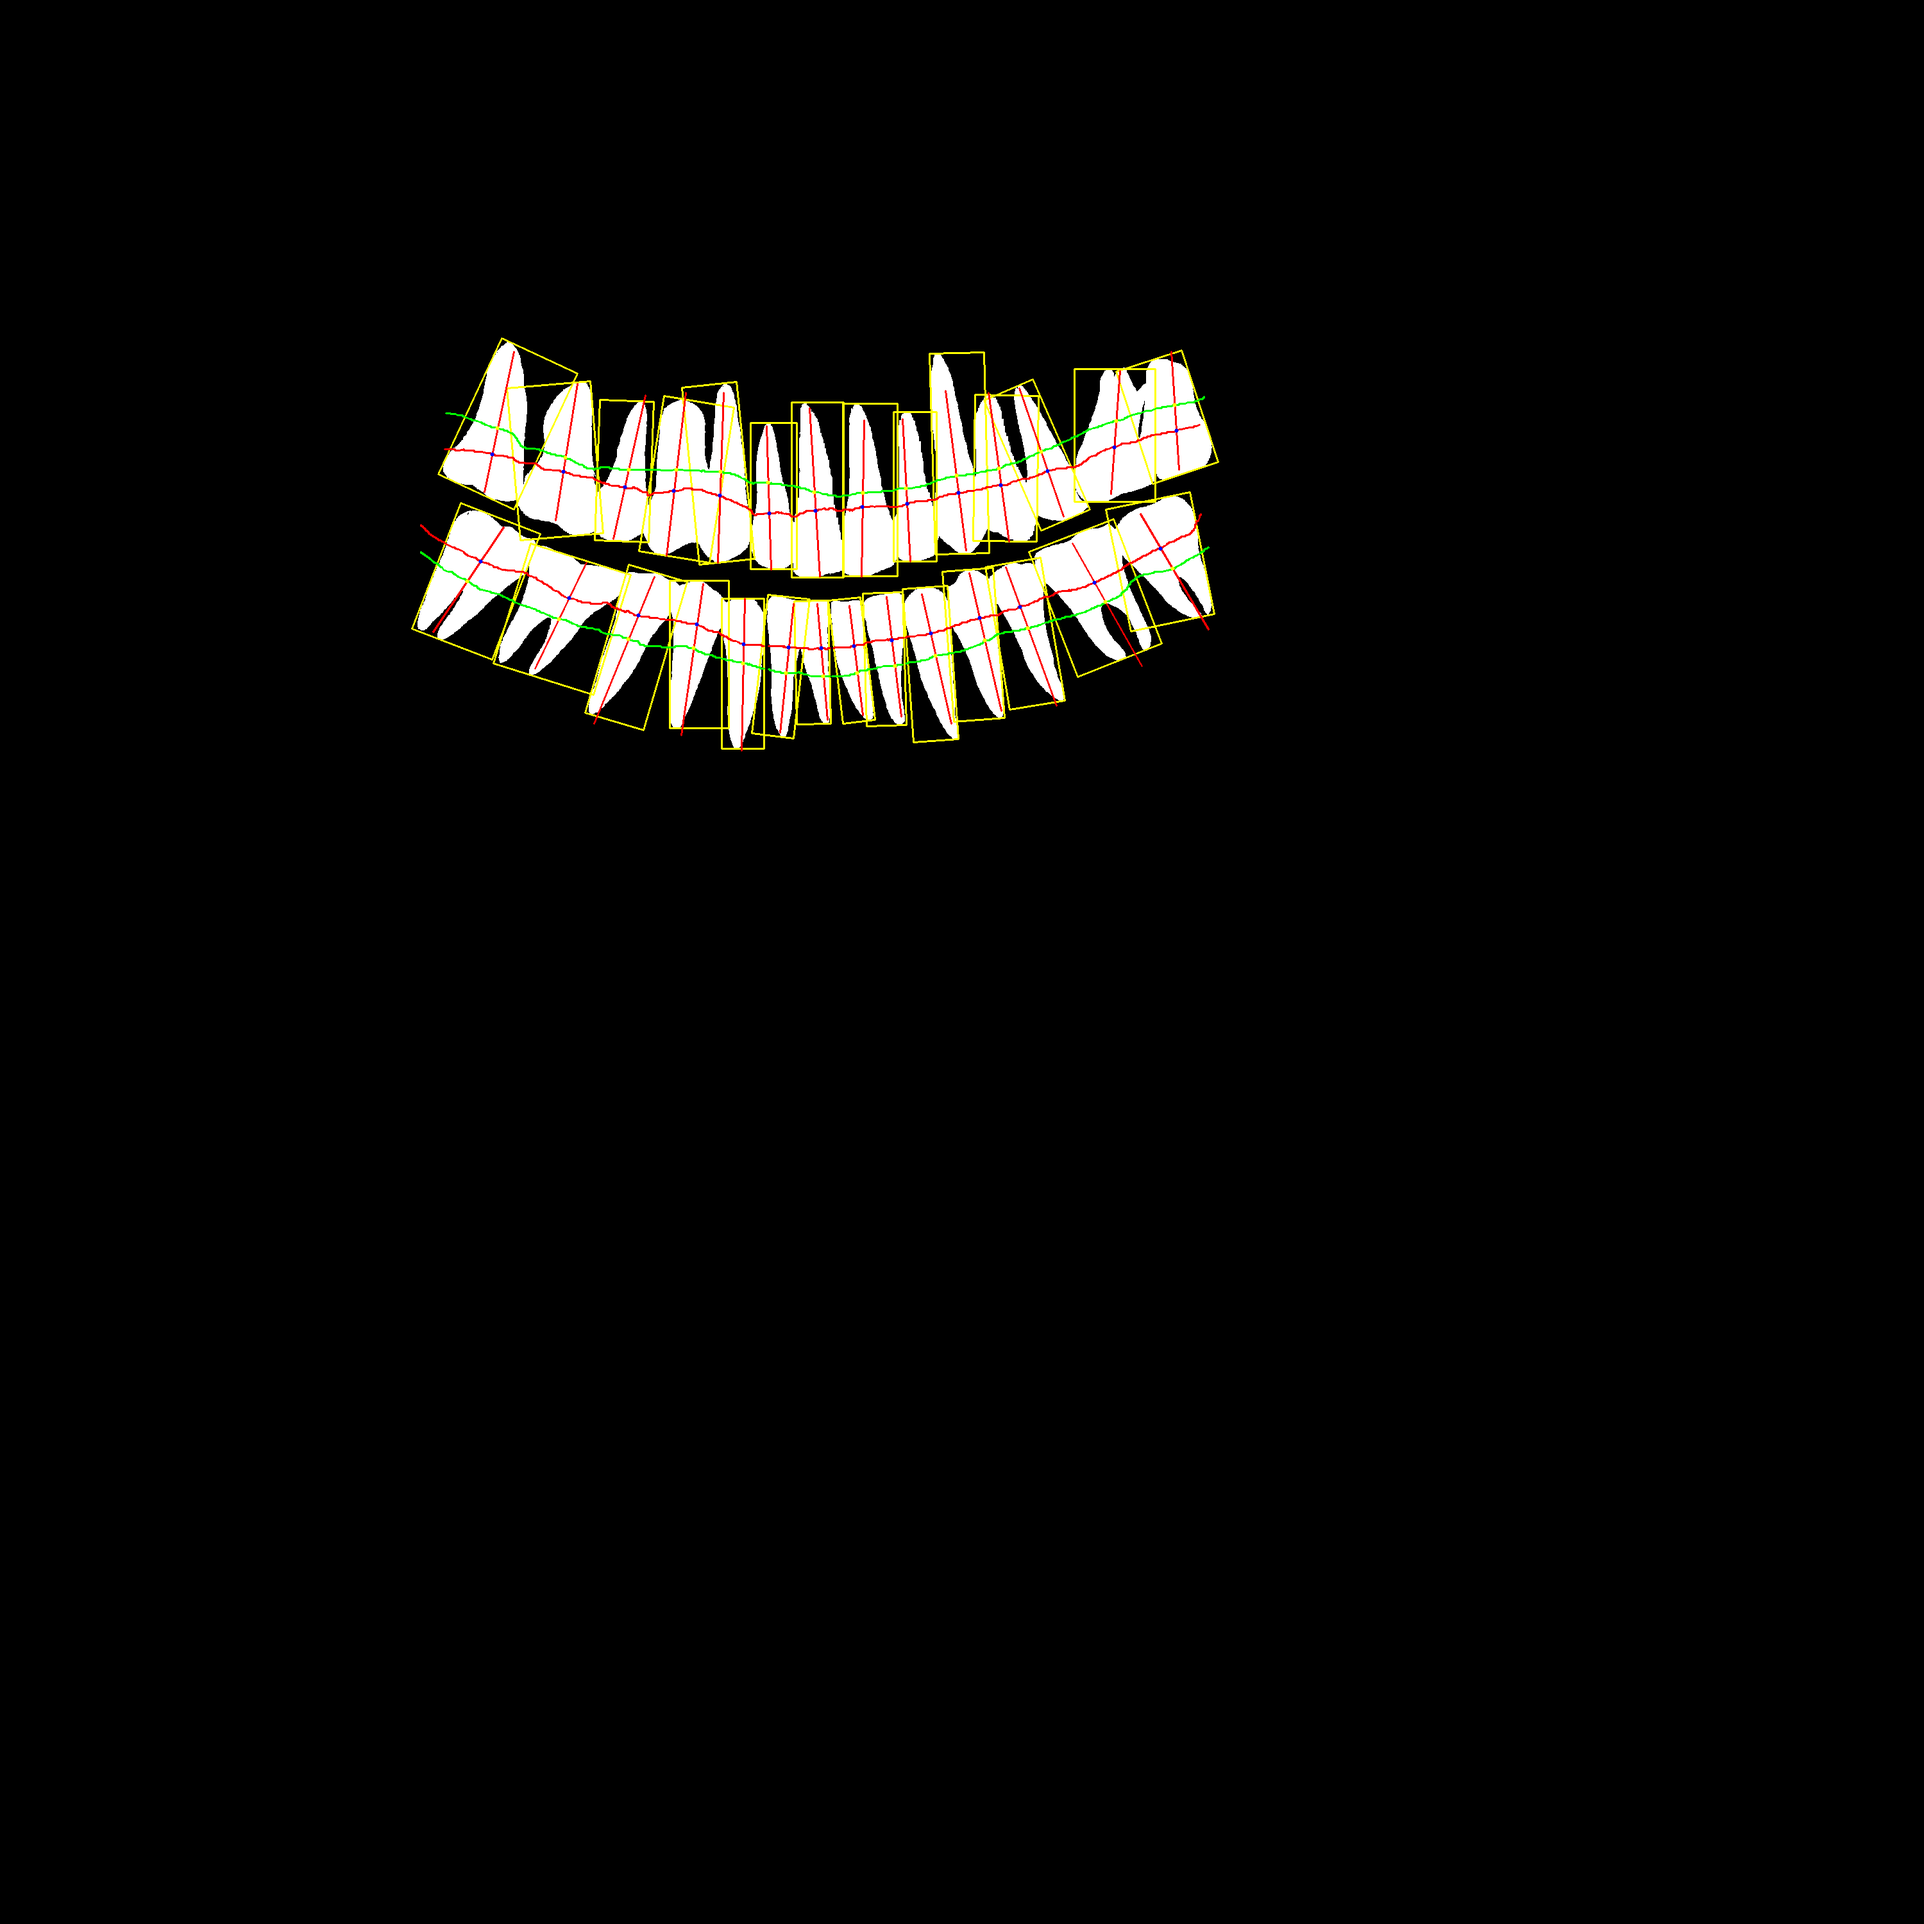
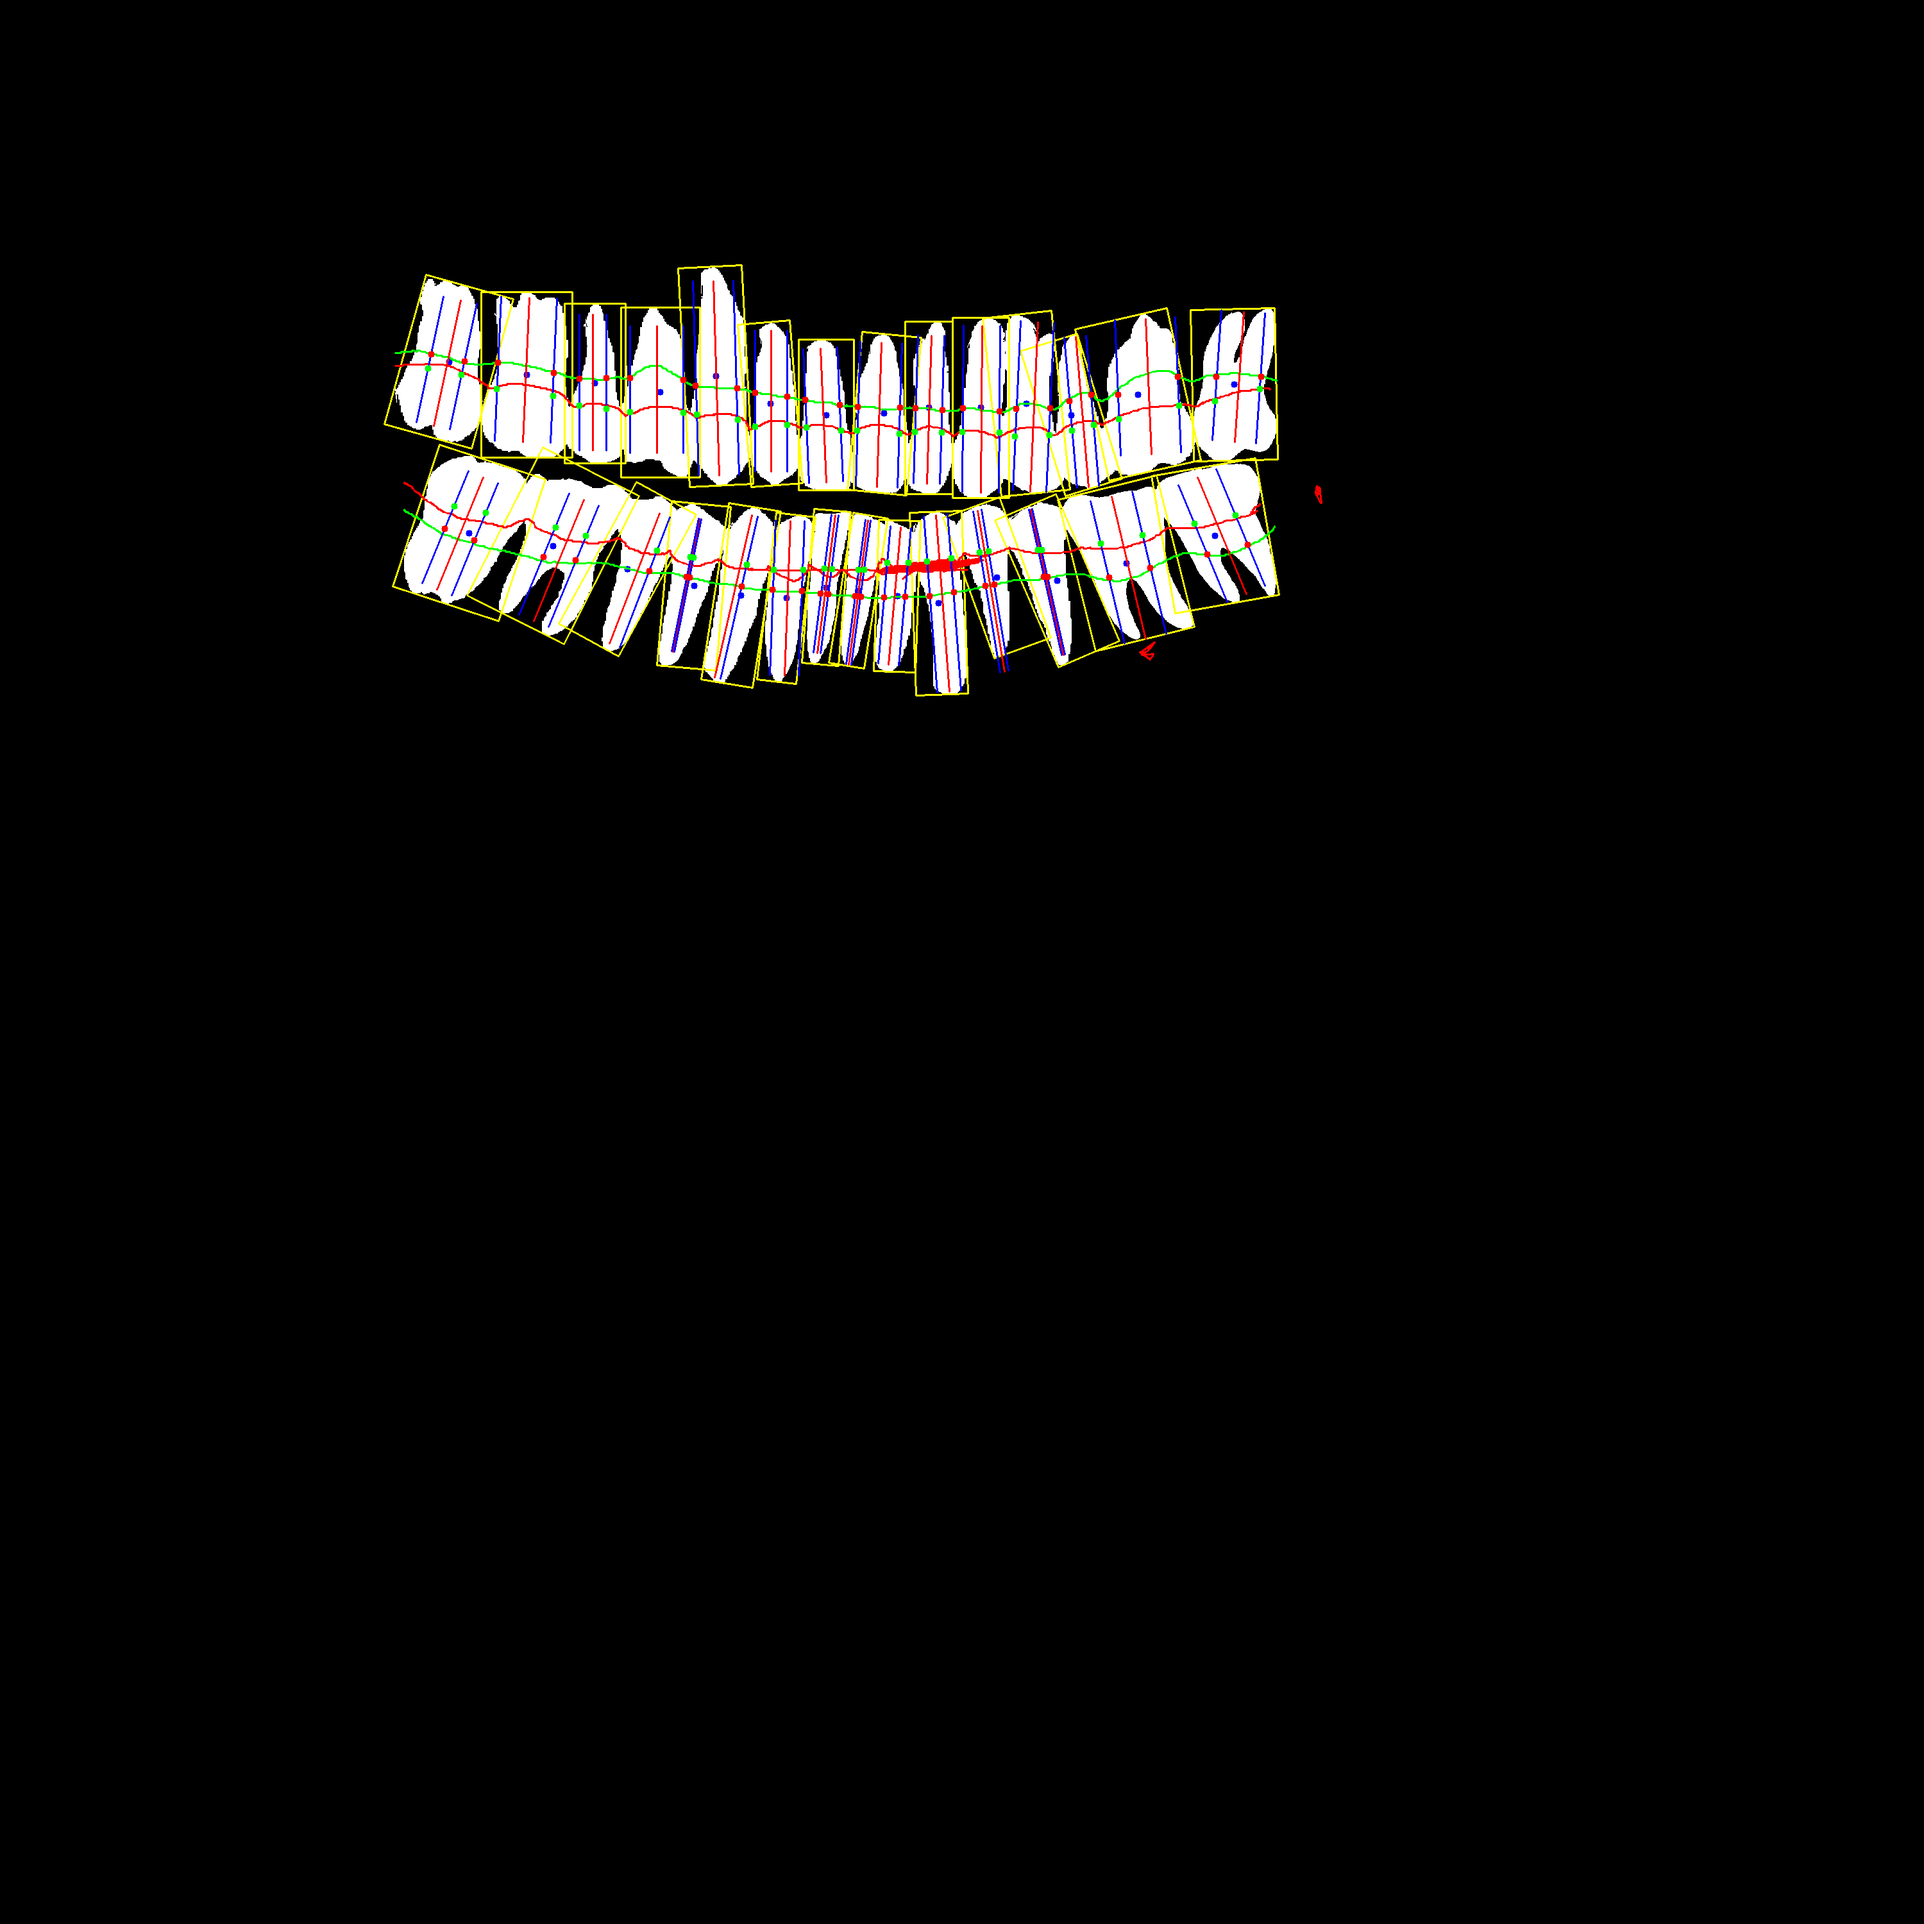
[BE-21]: tla 양쪽 평행이동

Changed region(s): [[0.186, 0.124, 0.682, 0.403]]

diff --git a/src/main/java/com/fas/PrtioAI_Insights/service/CejBoneDistancesService.java b/src/main/java/com/fas/PrtioAI_Insights/service/CejBoneDistancesService.java
@@ -323,7 +323,6 @@ public class CejBoneDistancesService {
             int toothNum = entry.getKey();
             List<List<Point>> tlaSegments = entry.getValue();
 
-            // 해당 치아 번호에 따른 CEJ와 Bone 교점 범위를 가져옴
             List<Point> cejIntersections = cejIntersectionsByTooth.get(toothNum);
             List<Point> boneIntersections = boneIntersectionsByTooth.get(toothNum);
 
@@ -345,51 +344,75 @@ public class CejBoneDistancesService {
                     double shiftX = (totalDy / length);
                     double shiftY = -(totalDx / length);
 
-                    Point lastCejIntersection = null;
-                    Point lastBoneIntersection = null;
-                    List<Point> finalShiftedTLA = new ArrayList<>();
-                    boolean foundLastIntersection = false;
+                    List<Point> finalShiftedTlaLeft = new ArrayList<>();
+                    List<Point> finalShiftedTlaRight = new ArrayList<>();
+                    Point lastCejIntersectionLeft = null;
+                    Point lastBoneIntersectionLeft = null;
+                    Point lastCejIntersectionRight = null;
+                    Point lastBoneIntersectionRight = null;
+                    boolean foundLeft = false;
+                    boolean foundRight = false;
 
-                    // TLA 평행 이동 반복
                     for (double offset = -50; offset <= 50; offset += 1) {
-                        List<Point> shiftedTLA = new ArrayList<>();
+                        List<Point> shiftedTlaLeft = new ArrayList<>();
+                        List<Point> shiftedTlaRight = new ArrayList<>();
+
                         for (Point p : tlaSegment) {
-                            Point shiftedPoint = new Point(p.x + offset * shiftX, p.y + offset * shiftY);
-                            if (shiftedPoint.x < minAllowedX || shiftedPoint.x > maxAllowedX) continue;
-                            shiftedTLA.add(shiftedPoint);
+                            Point leftShifted = new Point(p.x + offset * shiftX, p.y + offset * shiftY);
+                            Point rightShifted = new Point(p.x - offset * shiftX, p.y - offset * shiftY);
+
+                            if (leftShifted.x >= minAllowedX && leftShifted.x <= maxAllowedX) {
+                                shiftedTlaLeft.add(leftShifted);
+                            }
+                            if (rightShifted.x >= minAllowedX && rightShifted.x <= maxAllowedX) {
+                                shiftedTlaRight.add(rightShifted);
+                            }
                         }
 
-                        if (shiftedTLA.isEmpty()) continue;
+                        if (!shiftedTlaLeft.isEmpty()) {
+                            Point currentCejIntersectionLeft = findClosestIntersection(shiftedTlaLeft, cejIntersections);
+                            Point currentBoneIntersectionLeft = findClosestIntersection(shiftedTlaLeft, boneIntersections);
 
-                        Point currentCejIntersection = findClosestIntersection(shiftedTLA, cejIntersections);
-                        Point currentBoneIntersection = findClosestIntersection(shiftedTLA, boneIntersections);
+                            if (currentCejIntersectionLeft != null && currentBoneIntersectionLeft != null) {
+                                lastCejIntersectionLeft = currentCejIntersectionLeft;
+                                lastBoneIntersectionLeft = currentBoneIntersectionLeft;
+                                finalShiftedTlaLeft = new ArrayList<>(shiftedTlaLeft);
+                                foundLeft = true;
+                            } else if (foundLeft) break;
+                        }
 
-                        // CEJ와 Bone 모두와 교점이 있을 경우에만 갱신
-                        if (currentCejIntersection != null && currentBoneIntersection != null) {
-                            lastCejIntersection = currentCejIntersection;
-                            lastBoneIntersection = currentBoneIntersection;
-                            finalShiftedTLA = shiftedTLA;
-                            foundLastIntersection = true;
-                        } else {
-                            // 교점이 모두 없는 경우, 마지막 유효한 교점을 찾았으므로 반복 종료
-                            if (foundLastIntersection) break;
+                        if (!shiftedTlaRight.isEmpty()) {
+                            Point currentCejIntersectionRight = findClosestIntersection(shiftedTlaRight, cejIntersections);
+                            Point currentBoneIntersectionRight = findClosestIntersection(shiftedTlaRight, boneIntersections);
+
+                            if (currentCejIntersectionRight != null && currentBoneIntersectionRight != null) {
+                                lastCejIntersectionRight = currentCejIntersectionRight;
+                                lastBoneIntersectionRight = currentBoneIntersectionRight;
+                                finalShiftedTlaRight = new ArrayList<>(shiftedTlaRight);
+                                foundRight = true;
+                            } else if (foundRight) break;
                         }
                     }
 
-                    // 최종 평행 이동된 TLA 선을 combinedMask에 표시
-                    for (int i = 0; i < finalShiftedTLA.size() - 1; i++) {
-                        Imgproc.line(combinedMask, finalShiftedTLA.get(i), finalShiftedTLA.get(i + 1), new Scalar(255, 0, 0), 2);
-                    }
-
-                    // 마지막 교점을 Map에 저장 및 시각화
                     Map<String, Point> toothIntersections = new HashMap<>();
-                    if (lastCejIntersection != null) {
-                        toothIntersections.put("Last_CEJ_Intersection", lastCejIntersection);
-                        Imgproc.circle(combinedMask, lastCejIntersection, 5, new Scalar(0, 255, 0), -1); // 초록색 점
+                    if (foundLeft) {
+                        toothIntersections.put("Last_CEJ_Intersection_Left", lastCejIntersectionLeft);
+                        toothIntersections.put("Last_Bone_Intersection_Left", lastBoneIntersectionLeft);
+                        for (int i = 0; i < finalShiftedTlaLeft.size() - 1; i++) {
+                            Imgproc.line(combinedMask, finalShiftedTlaLeft.get(i), finalShiftedTlaLeft.get(i + 1), new Scalar(255, 0, 0), 2);
+                        }
+                        Imgproc.circle(combinedMask, lastCejIntersectionLeft, 5, new Scalar(0, 255, 0), -1);
+                        Imgproc.circle(combinedMask, lastBoneIntersectionLeft, 5, new Scalar(0, 0, 255), -1);
                     }
-                    if (lastBoneIntersection != null) {
-                        toothIntersections.put("Last_Bone_Intersection", lastBoneIntersection);
-                        Imgproc.circle(combinedMask, lastBoneIntersection, 5, new Scalar(0, 0, 255), -1); // 빨간색 점
+
+                    if (foundRight) {
+                        toothIntersections.put("Last_CEJ_Intersection_Right", lastCejIntersectionRight);
+                        toothIntersections.put("Last_Bone_Intersection_Right", lastBoneIntersectionRight);
+                        for (int i = 0; i < finalShiftedTlaRight.size() - 1; i++) {
+                            Imgproc.line(combinedMask, finalShiftedTlaRight.get(i), finalShiftedTlaRight.get(i + 1), new Scalar(255, 0, 0), 2);
+                        }
+                        Imgproc.circle(combinedMask, lastCejIntersectionRight, 5, new Scalar(0, 255, 0), -1);
+                        Imgproc.circle(combinedMask, lastBoneIntersectionRight, 5, new Scalar(0, 0, 255), -1);
                     }
 
                     if (!toothIntersections.isEmpty()) {
@@ -400,7 +423,6 @@ public class CejBoneDistancesService {
         }
         return intersectionsByTooth;
     }
-
 
 
 
